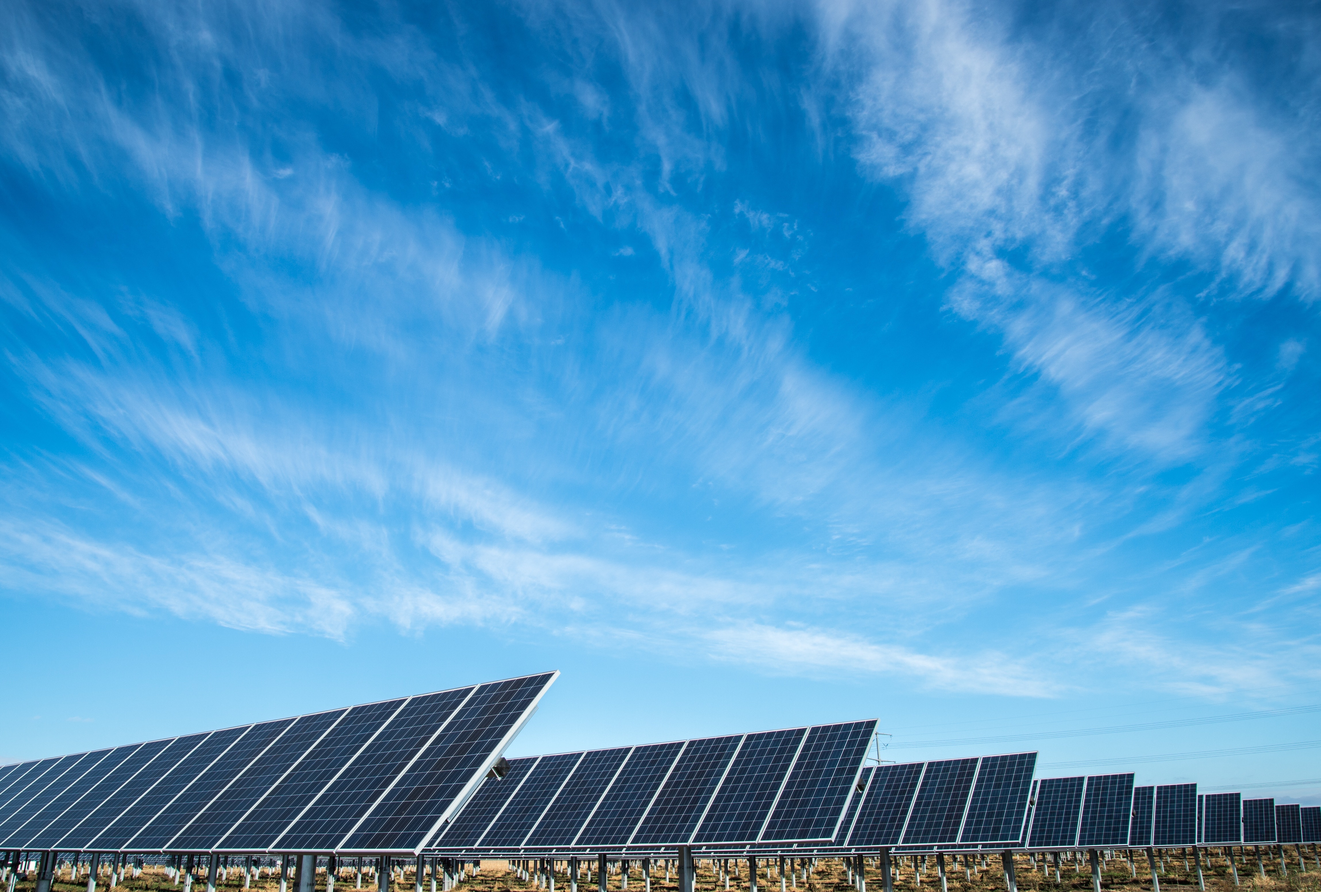
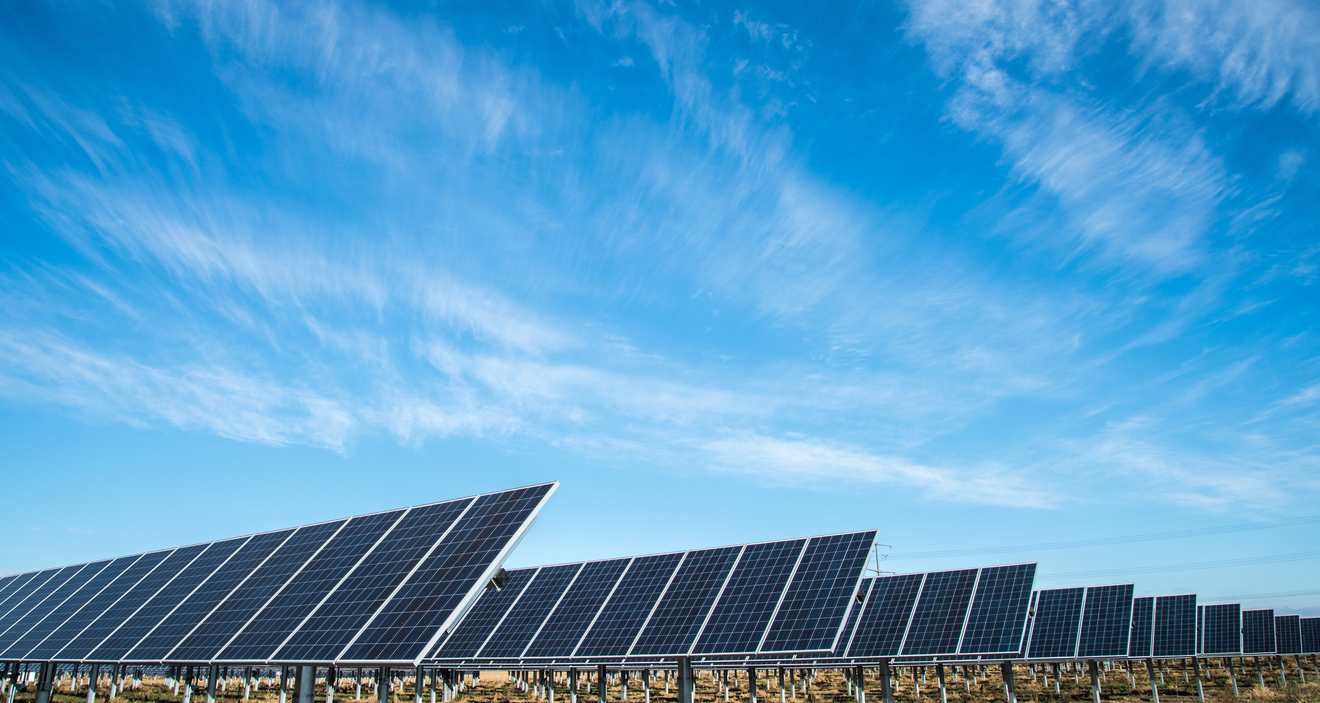
Changed Image

diff --git a/css/agency.css b/css/agency.css
@@ -172,7 +172,8 @@ img::-moz-selection {
 header.masthead {
   text-align: center;
   color: white;
-  background-image: url("../img/solarpanels.jpg");
+  background-image: url("../img/widesolar.jpg");
+  /* background-image: url("../img/solarpanels.jpg"); */
   background-repeat: no-repeat;
   background-attachment: scroll;
   background-position: bottom center;
